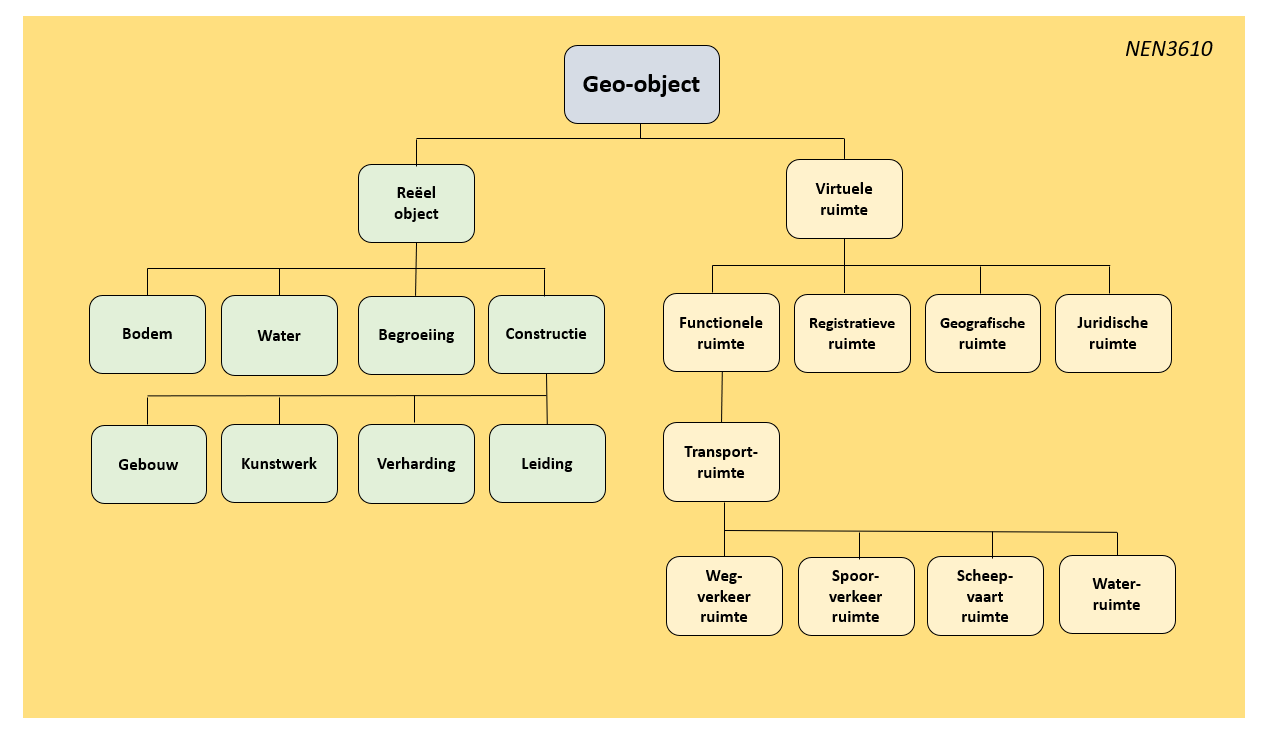
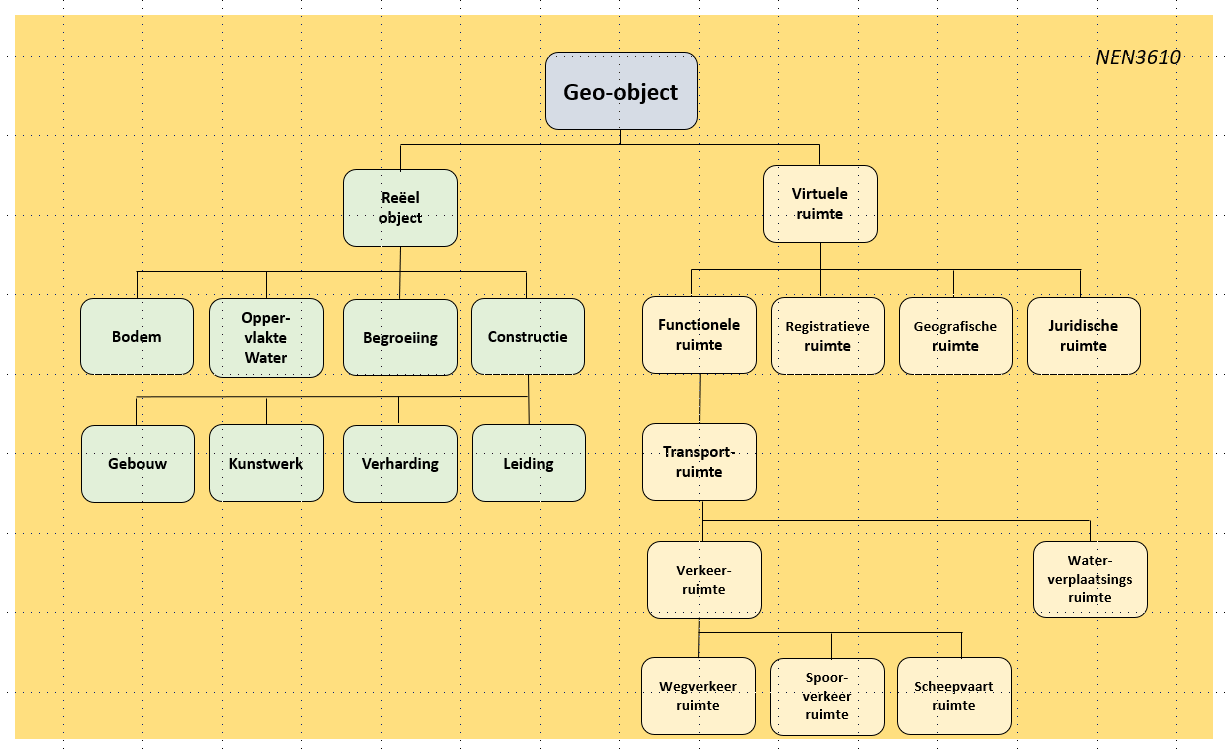
redactioneel

Changed region(s): [[0.0, 0.0, 0.9902, 1.0], [0.3713, 0.25, 0.4023, 0.3125], [0.6808, 0.2188, 0.7117, 0.25]]

diff --git a/Samenhang.md b/Samenhang.md
@@ -28,11 +28,12 @@ De verschillende in dit semantische model opgenomen hoofdklassen worden daarbij 
 |Leiding|	Een geheel van geleiders of ruimte welke voorzien zijn van één ommanteling en bestemd is voor transport van materie, data of energie|
 |**Virtuele ruimte**|	Geo-object waarvan geen tastbaar, zichtbaar en begrensd fenomeen in de werkelijkheid aanwezig is, maar die slechts in abstracte en/of geregistreerde vorm bestaat|
 |Functionele ruimte|	Ruimte met een specifieke functie|
-|Transportruimte|	Natuurlijke of aangelegde transportlijnen of verbindingen met knooppunten waarlangs stromen zich verplaatsen|
-|Wegverkeerruimte|	Transportruimte voor voertuigen die zich over wegen verplaatsen|
-|Scheepvaartruimte|	Transportruimte voor voertuigen die zich over water verplaatsen|
-|Spoorverkeerruimte|	Transportruimte voor voertuigen die zich over rails verplaatsen|
-|Waterruimte	|Transportruimte waardoor water zich verplaatst|
+|Transportruimte|	Natuurlijke of aangelegde transportlijnen of verbindingen met knooppunten waarlangs stromen zich kunnen verplaatsen|
+|Verkeerruimte| Verkeerruimte voor verkeer over land, water of door de lucht|
+|Wegverkeerruimte|	Verkeerruimte voor voertuigen die zich over wegen verplaatsen|
+|Scheepvaartruimte|	Verkeerruimte voor voertuigen die zich over water verplaatsen|
+|Spoorverkeerruimte|	Verkeerruimte voor voertuigen die zich over rails verplaatsen|
+|Waterverplaatsingsruimte	|Transportruimte waardoor water zich verplaatst|
 |Registratieve ruimte|	Op basis van wet- of regelgeving afgebakende ruimte die als eenheid geldt van politiek/bestuurlijke verantwoordelijkheid of voor bedrijfsvoering|
 |Geografische ruimte|	Ruimte die bekend staat onder een vanuit de historie of in in de volksmond bekende benaming of een fysisch-geografische samenhang kent|
 |Juridische ruimte| Ruimte waar een juridisch instrument beleid of regelgeving toepast|

diff --git a/Functionele_ruimten.md b/Functionele_ruimten.md
@@ -4,7 +4,7 @@
 ### Transportruimten
 
  <div class='note'>
-    Op dit moment zijn de transportruimten WEG en SPOORWEG uitgewerkt. Er is nog onvoldoende duidelijkheid over transport van en over water. Deze zijn in dit document niet opgenomen maar kunnen hier later mogelijk aan worden toegevoegd conform de algemene principes over netwerken.
+    Op dit moment zijn de verkeerruimten Wegverkeerruimte en Spoorverkeerruimte uitgewerkt. Er is nog onvoldoende duidelijkheid over Scheepvaartruimte en Waterverplaatsingsruimte. Deze zijn in dit document niet opgenomen maar kunnen hier later mogelijk aan worden toegevoegd conform de algemene principes over netwerken.
 </div>
 
  

diff --git a/Bijlagen.md b/Bijlagen.md
@@ -81,6 +81,7 @@
 - landschapselement  als element er uit sub elementyen naar hoger niveau
 - Berg, Dal en Groeve van landschappelijk gebied naar Reliefzone
 - bomenrij stond er dubbel in, verijderd bij de reele objecten
+- NEN 3610 plaat is geactualiseerd en  bijbehorende teksten in Samenhang en Functionele Ruimten
 
 
 
